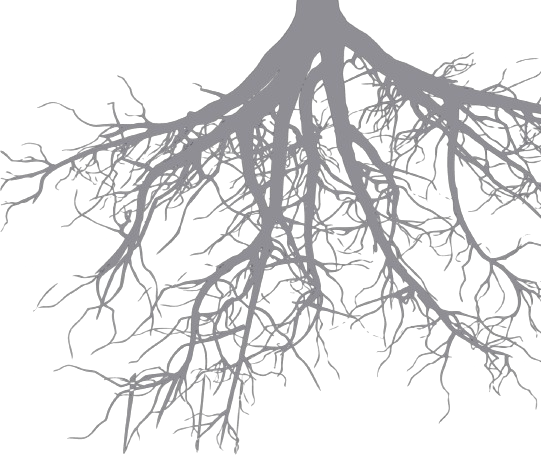
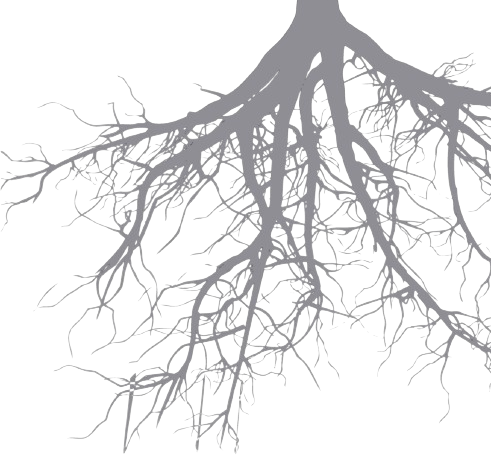
segunda seção concluida

diff --git a/style.css b/style.css
@@ -1,3 +1,6 @@
+@import url('https://fonts.googleapis.com/css2?family=Alike&family=Inter:wght@100..900&display=swap');
+@import url('https://fonts.googleapis.com/css2?family=Abhaya+Libre:wght@400;500;600;700;800&display=swap');
+
 :root {
   --green: #50fa7b;
   --gray-dark: #121212;
@@ -5,11 +8,8 @@
   --white: #FFFFFF;
   --gray: #6C6C6C;
   --yellow-light: #F4F1DE;
-}
-
-* {
-  font-family: "Inter";
-  font-weight: 400;
+  --font1: "Inter", sans-serif;
+  --font2: "Abhaya Libre", serif;
 }
 
 html, body {
@@ -26,6 +26,8 @@ main {
 }
 
 .login {
+  font-family: var(--font1);
+  font-weight: 400;
   width: 500px;
   height: 500px;
   display: flex;
@@ -42,6 +44,8 @@ main {
 }
 
 .large_input {
+  font-family: var(--font1);
+  font-weight: 400;
   margin-top: 10px;
   width: 450px;
   height: 35px;
@@ -53,6 +57,8 @@ main {
 }
 
 .medium_input {
+  font-family: var(--font1);
+  font-weight: 400;
   margin-top: 10px;
   width: 320px;
   height: 35px;
@@ -64,6 +70,8 @@ main {
 }
 
 .small_input {
+  font-family: var(--font1);
+  font-weight: 400;
   margin-top: 10px;
   width: 205px;
   height: 35px;
@@ -76,6 +84,8 @@ main {
 }
 
 .vsmall_input {
+  font-family: var(--font1);
+  font-weight: 400;
   margin-top: 10px;
   width: 90px;
   height: 35px;
@@ -97,6 +107,8 @@ main {
 }
 
 #botao {
+  font-family: var(--font1);
+  font-weight: 400;
   margin-top: 2rem;
   background-color: var(--green);
   color: #000;
@@ -127,12 +139,12 @@ main {
   margin-left: 112px;
   width: 309px;
   height: 75px;
-  flex-direction: row;
-  align-self: center;
 }
 
 .img_raiz {
-  margin: 0%;
+  margin-top: 0%;
+  width: 693px;
+  height: 591px;
 }
 
 .password {
@@ -164,6 +176,8 @@ main {
 }
 
 .header {
+  font-family: var(--font1);
+  font-weight: 400;
   display: flex;
   flex-direction: row;
   justify-content: space-between;
@@ -179,19 +193,44 @@ main {
 
 .slogan {
   color: var(--white);
-  font-size: 48px;
+  font-family: var(--font2);
+  font-size: 40px;
   margin-left: 170px;
   margin-top: 160px;
 }
 
 .slogan2 {
   color: var(--white);
+  font-family: var(--font1);
   font-size: 24px;
-  font-weight: 300;
 }
 
 .mission {
+  margin-left: 150px;
+  background-color: var(--gray-dark);
+  font-family: var(--font2);
+  font-size: 32px;
+  color: var(--white);
   display: flex;
   flex-direction: row;
-  justify-content: flex-end;
+  justify-content: space-between;
+}
+
+.title_mission {
+  margin-top: 100px;
+  margin-bottom: 0%;
+}
+
+.line_mission {
+  border-top: 3px solid var(--green);
+  width: 50%; 
+  margin-left: 40px; 
+
+}
+
+.txt_mission {
+  margin-top: 150px;
+  color: var(--white);
+  font-family: var(--font1);
+  font-size: 20px;
 }

diff --git a/principal.html b/principal.html
@@ -4,12 +4,6 @@
   <meta charset="UTF-8" />
   <meta name="viewport" content="width=device-width, initial-scale=1.0" />
   <title>Re:Forest</title>
-  <link rel="preconnect" href="https://fonts.googleapis.com" />
-  <link rel="preconnect" href="https://fonts.gstatic.com" crossorigin />
-  <link
-    href="https://fonts.googleapis.com/css2?family=Inter:wght@100..900&display=swap"
-    rel="stylesheet"
-  />
   <link rel="stylesheet" href="./style.css" />
 </head>
 <body>
@@ -31,14 +25,21 @@
         </div>
     </header>
     <div class="slogan">
-      <p>Você pode tornar o nosso<br>mundo melhor!</p>
+      <h1>Você pode tornar o nosso<br>mundo melhor!</h1>
       <p class="slogan2">Para você e seus descendentes...</p>
     </div>
   </section>
   <section class="mission">
-    <figure class="img_raiz">
-      <img src="assets/images/raizes.png">
-    </figure>
+    <div>
+      <h2 class="title_mission">
+        <svg xmlns="http://www.w3.org/2000/svg" height="32px" viewBox="0 -960 960 960" width="32px" fill="#50fa7b"><path d="M320-200v-560l440 280-440 280Z"/></svg>Nossa Missão
+      </h2>
+      <hr class="line_mission">
+      <p class="txt_mission">Incentivar cada pessoa a adotar uma muda de planta de<br><br><br> sua região de moradia, contribuindo para a biodiversidade<br><br><br> local e a saúde do nosso planeta.</p>
+    </div>
+    <div>
+      <img src="assets/images/raizes.png" class="img_raiz">
+    </div>
   </section>
 </body>
 </html>

diff --git a/cadastro.html b/cadastro.html
@@ -4,12 +4,6 @@
     <meta charset="UTF-8" />
     <meta name="viewport" content="width=device-width, initial-scale=1.0" />
     <title>Cadastro</title>
-    <link rel="preconnect" href="https://fonts.googleapis.com" />
-    <link rel="preconnect" href="https://fonts.gstatic.com" crossorigin />
-    <link
-      href="https://fonts.googleapis.com/css2?family=Inter:wght@100..900&display=swap"
-      rel="stylesheet"
-    />
     <link rel="stylesheet" href="./style.css" />
   </head>
   <body>

diff --git a/login.html b/login.html
@@ -4,12 +4,6 @@
     <meta charset="UTF-8" />
     <meta name="viewport" content="width=device-width, initial-scale=1.0" />
     <title>Login</title>
-    <link rel="preconnect" href="https://fonts.googleapis.com" />
-    <link rel="preconnect" href="https://fonts.gstatic.com" crossorigin />
-    <link
-      href="https://fonts.googleapis.com/css2?family=Inter:wght@100..900&display=swap"
-      rel="stylesheet"
-    />
     <link rel="stylesheet" href="./style.css" />
   </head>
   <body>
